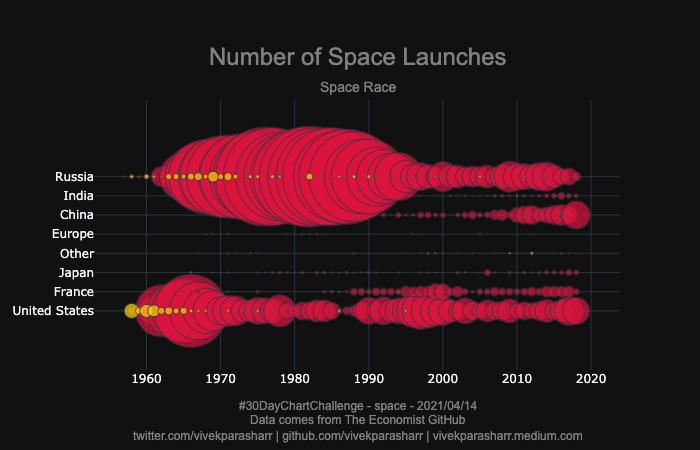
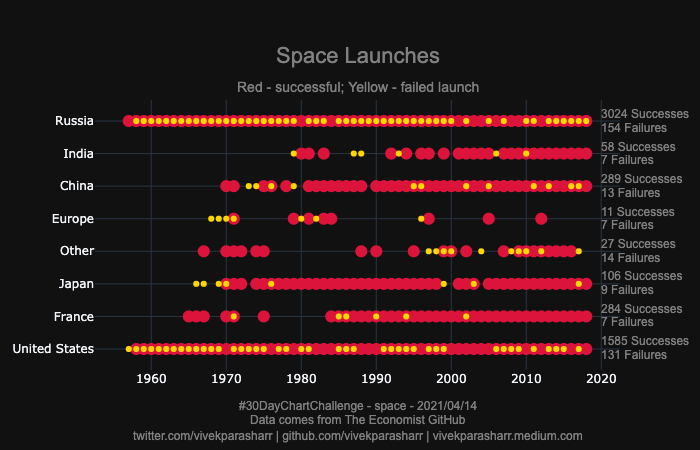
x

diff --git a/30DayChartChallenge/20210414-relationships-space.py b/30DayChartChallenge/20210414-relationships-space.py
@@ -18,24 +18,15 @@ map_dictionary={'SU':'Russia', 'US':'United States', 'RU':'Russia', 'CN':'China'
 df['Country'] = df['state_code'].apply(set_values, args =(map_dictionary, )) 
 
 df2 = df.groupby(['launch_year','Country','category']).count()[['tag']].reset_index()
-df2.head()
-df2.Country.unique()
+
+df3 = df2.groupby(['Country','category']).sum()['tag'].reset_index()
 
 countries = ['United States', 'France', 'Japan', 'Other',
        'Europe', 'China', 'India', 'Russia']
-cou='United States'
-categories = ['O', 'F']
 
-cat='F'
-
-((df2[df2.Country==cou][df2.category=='O'].tag)/10).to_list()
-
-
-df2.groupby(['launch_year','Country']).sum()['tag'].plot(kind='bar')
 df2.groupby(['launch_year','Country']).sum()['tag'].sort_values(ascending=False)
+df2.groupby(['launch_year','Country']).sum()['tag'].unique()
 
-cou='United States'
-((df2[df2.Country==cou][df2.category=='F'].tag)).to_list()
 
 ### PLOTTING
 fig = go.Figure()
@@ -65,7 +56,7 @@ fig.update_layout(showlegend=False)
 # Title
 fig.add_annotation(dict(xref='paper',yref='paper',x=0.5,y=1.22,xanchor='center',yanchor='top', 
 font=dict(family='Arial',size=22,color='grey'),showarrow=False, 
-text='Number of Space Launches'))
+text='Space Launches'))
 # Subtitle
 fig.add_annotation(dict(xref='paper',yref='paper',x=0.5,y=1.085,xanchor='center',yanchor='top',
 font=dict(family='Arial',size=14,color='grey'),showarrow=False,
@@ -80,134 +71,27 @@ text='Data comes from The Economist GitHub'))
 fig.add_annotation(dict(xref='paper',yref='paper',x=0.5,y=-0.21,xanchor='center',yanchor='top',
 font=dict(family='Arial', size=12, color='grey'),showarrow=False,
 text='twitter.com/vivekparasharr | github.com/vivekparasharr | vivekparasharr.medium.com'))
+
 # Annotation
-fig.add_annotation(dict(xref='paper',yref='paper',x=0.5,y=1.0,xanchor='center',yanchor='top',
-font=dict(family='Arial', size=12, color='grey'),showarrow=False,
-text='xx'))
-fig.add_annotation(dict(xref='paper',yref='paper',x=0.5,y=-0.15,xanchor='center',yanchor='top',
-font=dict(family='Arial', size=12, color='grey'),showarrow=False,
-text='Data comes from The Economist GitHub'))
-fig.add_annotation(dict(xref='paper',yref='paper',x=0.5,y=-0.21,xanchor='center',yanchor='top',
-font=dict(family='Arial', size=12, color='grey'),showarrow=False,
-text='twitter.com/vivekparasharr | github.com/vivekparasharr | vivekparasharr.medium.com'))
-fig.add_annotation(dict(xref='paper',yref='paper',x=0.5,y=-0.10,xanchor='center',yanchor='top',
-font=dict(family='Arial', size=12, color='grey'),showarrow=False,
-text='#30DayChartChallenge - space - 2021/04/14'))
-fig.add_annotation(dict(xref='paper',yref='paper',x=0.5,y=-0.15,xanchor='center',yanchor='top',
-font=dict(family='Arial', size=12, color='grey'),showarrow=False,
-text='Data comes from The Economist GitHub'))
-fig.add_annotation(dict(xref='paper',yref='paper',x=0.5,y=-0.21,xanchor='center',yanchor='top',
-font=dict(family='Arial', size=12, color='grey'),showarrow=False,
-text='twitter.com/vivekparasharr | github.com/vivekparasharr | vivekparasharr.medium.com'))
+y_high = 0.14
+y_low = 0.09
+stepper = 0
+
+for cou in countries:
+
+    print(str(df3[df3.Country==cou][df3.category=='O'].tag.values[0])+' Failures')
+
+    # Successes
+    fig.add_annotation(dict(xref='paper',yref='paper',x=0.96,y=(y_high+stepper),xanchor='left',yanchor='top',
+    font=dict(family='Arial', size=12, color='grey'),showarrow=False,
+    text=str(df3[df3.Country==cou][df3.category=='O'].tag.values[0])+' Successes'))
+    # Failures
+    fig.add_annotation(dict(xref='paper',yref='paper',x=0.96,y=(y_low+stepper),xanchor='left',yanchor='top',
+    font=dict(family='Arial', size=12, color='grey'),showarrow=False,
+    text=str(df3[df3.Country==cou][df3.category=='F'].tag.values[0])+' Failures'))
+    # Update stepper
+    stepper+=0.12
 
 fig.show()
 
 
-
-
-
-
-planets=pd.read_csv('Data/planets.csv')
-df=planets
-
-df.info()
-
-sns.regplot(data=df2, x="launch_year", y="tag")
-
-import plotly.express as px
-fig = px.scatter(data=df2, x="launch_year", y="tag")
-fig.show()
-
-launches = pd.read_csv('https://raw.githubusercontent.com/rfordatascience/tidytuesday/master/data/2019/2019-01-15/launches.csv')
-df=launches
-df.head()
-
-
-sns.scatterplot(data=df2, x="launch_year", y="tag", hue='category'), size="pop", legend=False, sizes=(20, 2000))
-
-
-df2 = df.groupby(['launch_year','state_code','category']).count()[['tag']].reset_index()
-df2.head()
-
-# PLOT
-import seaborn as sns
-import matplotlib.pyplot as plt
-g = sns.pairplot(data=df2, 
-    kind="scatter", hue="category", plot_kws=dict(s=80, edgecolor="white", linewidth=2.5), corner=True)
-g.map_lower(sns.kdeplot, levels=4, color=".2")
-g.fig.text(0.35, 0.95,'Correlation between human development index,', fontsize=18) #add text
-g.fig.text(0.35, 0.9,'   life expectancy, and median age by continent', fontsize=18) #add text
-g.fig.text(0.55, 0.85,'Data: https://ourworldindata.org/coronavirus-source-data', fontsize=10) #add text
-g.fig.text(0.55, 0.82,'#30DayChartChallenge - circular - 2021/04/13', fontsize=10) #add text
-g.fig.text(0.55, 0.79,'twitter.com/vivekparasharr | github.com/vivekparasharr', fontsize=10) #add text
-plt.show()
-
-
-
-fig = px.line(df2, x="launch_year", y="tag", color="category",)
-                 size='tag',)
-    
-
-fig = px.scatter(df2, x="launch_year", y="tag", color="category",
-                 size='tag',)
-fig.show()
-
-
-# visualize categories
-import plotly.express as px
-fig = px.parallel_categories(df)
-fig.show()
-
-import dataprep.eda as eda
-eda.plot(df)#,'book_lines')
-eda.plot_correlation(df, 'launch_year') 
-eda.plot_missing(df, 'country')
-
-
-# prepare data
-energy = energy[energy.Entity.isin(['United Kingdom', 'United States', \
-    'Australia', 'Chile', 'India'])]
-energy = energy[energy.Year.isin(['1965', '2019'])]
-energy.columns = ['country', 'code', 'year', 'value']
-energy.value = energy.value.round()
-
-# calculate variables for plot
-df = energy
-year1=1965
-year2=2019
-vp_offset = (year2 - year1)/2
-year1val = df[df.year==1965].value.to_list()
-year2val = df[df.year==2019].value.to_list()
-cat1val = df[df.year==1965].country.to_list()
-vp_min = -min(year1val+year2val)*0.95
-vp_max = max(year1val+year2val)*1.05
-
-# Making the SLOPEGRAPH using plotly
-import plotly.graph_objects as go
-fig = go.Figure()
-for x_val, y_val, cat_val in zip(year1val, year2val, cat1val):
-    fig.add_trace(go.Scatter(x=[year1, year2], y=[x_val, y_val], mode='lines+markers+text', text=[cat_val, cat_val], textposition=['middle left', 'middle right'] ))
-fig.update_layout(showlegend=False) 
-fig.add_shape(type="line", x0=year1, y0=vp_min, x1=year1, y1=vp_max,line=dict(color="Grey",width=2))
-fig.add_shape(type="line", x0=year2, y0=vp_min, x1=year2, y1=vp_max,line=dict(color="Grey",width=2))
-fig.update_yaxes(range=[vp_min, vp_max] ) #, showticklabels=False)
-fig.update_xaxes(range=[year1-vp_offset, year2+vp_offset] ) # showticklabels=False
-# Title
-fig.add_annotation(dict(xref='paper',yref='paper',x=0.5,y=1.22,xanchor='center',yanchor='top', 
-font=dict(family='Arial',size=24,color='grey'),showarrow=False, 
-text='Energy Use Per Person'))
-# Subtitle
-fig.add_annotation(dict(xref='paper',yref='paper',x=0.5,y=1.085,xanchor='center',yanchor='top',
-font=dict(family='Arial',size=14,color='grey'),showarrow=False,
-text='1965 vs 2019'))
-# Footer
-fig.add_annotation(dict(xref='paper',yref='paper',x=0.5,y=-0.07,xanchor='center',yanchor='top',
-font=dict(family='Arial', size=12, color='grey'),showarrow=False,
-text='#30DayChartChallenge - slope - 2021/04/05'))
-fig.add_annotation(dict(xref='paper',yref='paper',x=0.5,y=-0.13,xanchor='center',yanchor='top',
-font=dict(family='Arial', size=12, color='grey'),showarrow=False,
-text='https://ourworldindata.org/grapher/per-capita-energy-use'))
-fig.add_annotation(dict(xref='paper',yref='paper',x=0.5,y=-0.21,xanchor='center',yanchor='top',
-font=dict(family='Arial', size=12, color='grey'),showarrow=False,
-text='twitter.com/vivekparasharr | github.com/vivekparasharr | vivekparasharr.medium.com'))
-fig.show()

diff --git a/30DayChartChallenge/20210415-multivariate.py b/30DayChartChallenge/20210415-multivariate.py
@@ -1,0 +1,193 @@
+
+# https://www.kaggle.com/maniyar2jaimin/interactive-plotly-guide-to-pca-lda-t-sne
+# PCA (Principal Component Analysis), 
+# LDA ( Linear Discriminant Analysis) and 
+# TSNE ( T-Distributed Stochastic Neighbour Embedding)
+
+import numpy as np
+import pandas as pd
+
+df = pd.read_csv('https://covid.ourworldindata.org/data/owid-covid-data.csv')
+
+# latest data
+exclude_countries = ['OWID_AFR', 'OWID_ASI', 'OWID_EUN', 'OWID_INT', 'OWID_EUR',
+'OWID_KOS', 'OWID_NAM','OWID_CYN', 'OWID_OCE', 'OWID_SAM', 'OWID_WRL']
+features=['iso_code', 'continent', 'location', 'population_density', 
+      'median_age', 'gdp_per_capita', 'cardiovasc_death_rate', 
+      'diabetes_prevalence', 'life_expectancy', 'human_development_index'
+      ,'total_cases_per_million']
+chosen_features = ['gdp_per_capita', 'cardiovasc_death_rate', 
+  'diabetes_prevalence', 'life_expectancy', 'human_development_index']
+
+df2 = df[df.date==df.date.max()][~df.iso_code.isin(exclude_countries)][features].dropna().reset_index(drop=True)
+
+
+'''
+Annotation funciton
+'''
+def header_and_footer(header, offset_top, offset_bottom):
+  # Title
+  fig.add_annotation(dict(xref='paper',yref='paper',x=0.5,y=offset_top,xanchor='center',yanchor='top', 
+    font=dict(family='Arial',size=20,color='grey'),showarrow=False, 
+    text=header))
+  fig.add_annotation(dict(xref='paper',yref='paper',x=0.5,y=(offset_top-0.07),xanchor='center',yanchor='top', 
+    font=dict(family='Arial',size=16,color='grey'),showarrow=False, 
+    text="Each point represents a country"))
+  # Footer
+  fig.add_annotation(dict(xref='paper',yref='paper',x=0.5,y=-(offset_bottom),xanchor='center',yanchor='top',
+    font=dict(family='Arial', size=12, color='grey'),showarrow=False,
+    text='#30DayChartChallenge - multivariate - 2021/04/15 | Data: OWID | twitter.com/vivekparasharr'))
+  fig.add_annotation(dict(xref='paper',yref='paper',x=0.5,y=-(offset_bottom+0.05),xanchor='center',yanchor='top',
+    font=dict(family='Arial', size=11, color='grey'),showarrow=False,
+    text='*note: gdp per capita, cardiovasc death rate, diabetes prevalence, life expectancy, human development index'))
+
+
+
+
+# PRINCIPAL COMPONENT ANALYSIS
+# Using SKLEARN
+# feature scaling
+from sklearn.preprocessing import StandardScaler
+sc=StandardScaler()
+x_scaled=sc.fit_transform(df2[chosen_features])
+# pca
+from sklearn.decomposition import PCA
+pca = PCA(n_components=None)
+x_pca = pca.fit_transform(x_scaled)
+
+# variance explained by principal components
+pca.explained_variance_ratio_
+# Plotting explained variance
+exp_var_cumul=pca.explained_variance_ratio_.cumsum()
+import plotly.express as px
+px.area(
+    x=range(1, exp_var_cumul.shape[0] + 1),
+    y=exp_var_cumul,
+    labels={"x": "# Components", "y": "Explained Variance"}
+)
+
+
+# VISUALIZATION
+# Using PLOTLY
+# https://plotly.com/python/pca-visualization/
+# Correlation plot of original features
+import plotly.express as px
+fig = px.scatter_matrix(df2, dimensions=chosen_features, color="continent", 
+  labels={"gdp_per_capita": "gdp*",  
+          "cardiovasc_death_rate": "heart*", 
+          "diabetes_prevalence": "diabetes*",
+          "life_expectancy": "life*", 
+          "human_development_index": "hdi*"})
+fig.update_traces(diagonal_visible=False, showupperhalf=False,)
+fig.update_layout(template="plotly_dark")
+header_and_footer("Scatter Matrix showing correlation between multiple variables", 1.2, 0.15)
+fig.show() #renderer="browser")
+
+# Visualize all principal components
+import plotly.express as px
+labels = {
+    str(i): f"PC {i+1} ({var:.1f}%)"
+    for i, var in enumerate(pca.explained_variance_ratio_ * 100)
+}
+fig = px.scatter_matrix(x_pca,labels=labels,dimensions=range(4),
+    color=df2["continent"])
+fig.update_traces(diagonal_visible=False)
+fig.update_layout(template="plotly_dark")
+fig.show()#(renderer="browser")
+
+# 2D PCA Scatter Plot
+import plotly.express as px
+fig = px.scatter(x_pca, x=0, y=1, color=df2['continent'],
+  labels={'0': 'PC 1 (59.2%)', '1': 'PC 2 (21.4%)',})
+fig.update_layout(template="plotly_dark")
+header_and_footer("Principal Component Analysis: 80.6pct of variance explained", 1.2, 0.15)
+fig.show()
+
+
+# Visualize Loadings
+# indicate which feature a certain loading original belong to
+# loadings = eigenvectors * sqrt(eigenvalues)
+import plotly.express as px
+fig = px.scatter(x_pca, x=0, y=1, color=df2['continent'])
+# additional code for loading
+loadings = pca.components_.T * np.sqrt(pca.explained_variance_)
+for i, feature in enumerate(chosen_features):
+    fig.add_shape(
+        type='line',
+        x0=0, y0=0,
+        x1=loadings[i, 0],
+        y1=loadings[i, 1]
+    )
+    fig.add_annotation(
+        x=loadings[i, 0],
+        y=loadings[i, 1],
+        ax=0, ay=0,
+        xanchor="center",
+        yanchor="bottom",
+        text=feature,
+    )
+fig.show(renderer='browser')
+
+
+
+
+
+
+# LDA - LINEAR DISCRIMINANT ANALYSIS
+from sklearn.discriminant_analysis import LinearDiscriminantAnalysis as LDA
+lda = LDA(n_components=None)
+# Taking in as second argument the Target as labels
+x_lda = lda.fit_transform(df2[chosen_features], df2.continent.values)
+
+# variance explained by linear discriminants
+lda.explained_variance_ratio_
+# Plotting explained variance
+exp_var_cumul=lda.explained_variance_ratio_.cumsum()
+import plotly.express as px
+px.area(
+    x=range(1, exp_var_cumul.shape[0] + 1),
+    y=exp_var_cumul,
+    labels={"x": "# Discriminants", "y": "Explained Variance"}
+)
+
+# Visualize all linear discriminants
+import plotly.express as px
+labels = {
+    str(i): f"LD {i+1} ({var:.1f}%)"
+    for i, var in enumerate(lda.explained_variance_ratio_ * 100)
+}
+fig = px.scatter_matrix(x_lda,labels=labels,dimensions=range(4),
+    color=df2["continent"])
+fig.update_traces(diagonal_visible=False)
+fig.update_layout(template="plotly_dark")
+fig.show(renderer="browser")
+
+# 2D LDA Scatter Plot
+import plotly.express as px
+fig = px.scatter(x_lda, x=0, y=1, color=df2['continent'],
+  labels={'0': 'LD 1 (74.1%)', '1': 'LD 2 (16.0%)'})
+fig.update_layout(template="plotly_dark")
+header_and_footer("Linear Discriminant Analysis: 90.1pct of variance explained", 1.2, 0.15)
+fig.show()
+
+
+
+
+
+
+
+# TSNE (T-Distributed Stochastic Neighbour Embedding
+from sklearn.manifold import TSNE
+tsne = TSNE()
+# Taking in as second argument the Target as labels
+x_tsne = tsne.fit_transform(df2[chosen_features])
+
+# 2D Scatter Plot
+import plotly.express as px
+fig = px.scatter(x_tsne, x=0, y=1, color=df2['continent'])
+fig.update_layout(template="plotly_dark")
+header_and_footer("TSNE (T-Distributed Stochastic Neighbour Embedding", 1.2, 0.15)
+fig.show()
+
+
+
